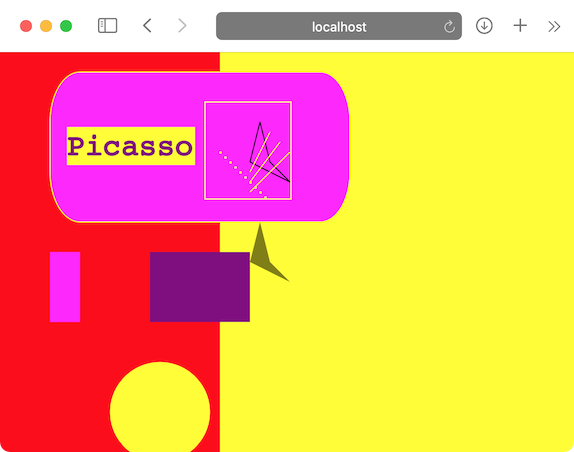
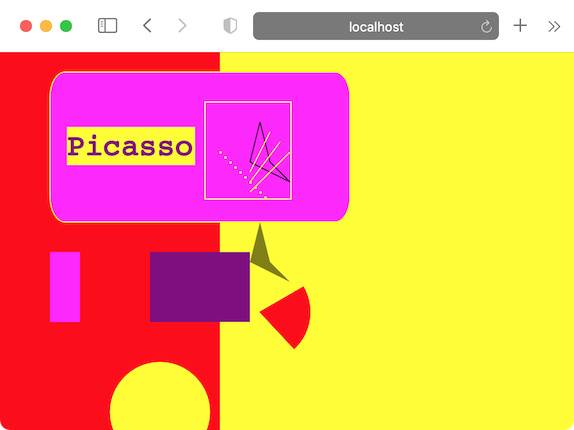
Version 0.28.1 changes: - Support `arc` Canvas Shape DSL keyword (partial support whereby width is assumed to be equal to height to start from a circle basis) - Use `arc` in Hello, Canvas! sample

diff --git a/lib/glimmer/swt/custom/shape/arc.rb b/lib/glimmer/swt/custom/shape/arc.rb
@@ -59,7 +59,6 @@ module Glimmer
             ry = height / 2.0
             cx = x + rx
             cy = y + ry
-            # TODO finish implementation connecting args with makeArcSegment method (currently containing static data)
             arc = two.makeArcSegment(cx, cy, 0, ry, 2*`Math.PI`*(start_angle)/360.0, 2*`Math.PI`*(end_angle)/360.0);
             arc.fill = background.to_css unless background.nil?
             arc.stroke = foreground.to_css unless foreground.nil?

diff --git a/README.md b/README.md
@@ -145,7 +145,7 @@ Hello, Table! Game Booked
 
 NOTE: Glimmer DSL for Opal is an alpha project. Please help make better by contributing, adopting for small or low risk projects, and providing feedback. It is still an early alpha, so the more feedback and issues you report the better.
 
-**Alpha Version** 0.28.0 only supports bare-minimum capabilities for the included [samples](https://github.com/AndyObtiva/glimmer-dsl-opal#samples) (originally written for [glimmer-dsl-swt](https://github.com/AndyObtiva/glimmer-dsl-swt))
+**Alpha Version** 0.28.1 only supports bare-minimum capabilities for the included [samples](https://github.com/AndyObtiva/glimmer-dsl-opal#samples) (originally written for [glimmer-dsl-swt](https://github.com/AndyObtiva/glimmer-dsl-swt))
 
 Other [Glimmer](https://github.com/AndyObtiva/glimmer) DSL gems:
 - [glimmer-dsl-swt](https://github.com/AndyObtiva/glimmer-dsl-swt): Glimmer DSL for SWT (JRuby Desktop Development GUI Framework)
@@ -271,7 +271,7 @@ gem 'opal', '1.0.5'
 gem 'opal-rails', '1.1.2'
 gem 'opal-async', '~> 1.4.0'
 gem 'opal-jquery', '~> 0.4.4'
-gem 'glimmer-dsl-opal', '~> 0.28.0'
+gem 'glimmer-dsl-opal', '~> 0.28.1'
 gem 'glimmer-dsl-xml', '~> 1.2.0', require: false
 gem 'glimmer-dsl-css', '~> 1.2.0', require: false
 

diff --git a/CHANGELOG.md b/CHANGELOG.md
@@ -1,5 +1,10 @@
 # Change Log
 
+## 0.28.1
+
+- Support `arc` Canvas Shape DSL keyword (partial support whereby width is assumed to be equal to height to start from a circle basis)
+- Use `arc` in Hello, Canvas! sample
+
 ## 0.28.0
 
 - Initial support for Canvas Shape DSL keywords (no-databinding, nesting, or gradients yet):
